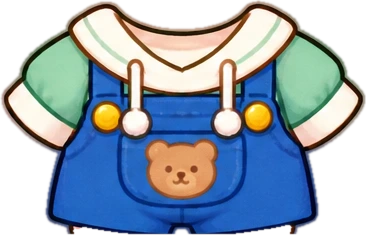
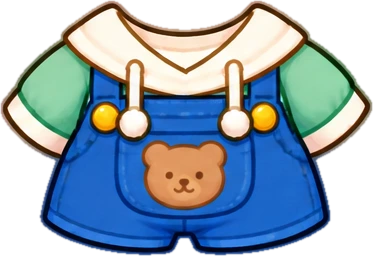
날개 4종, 의상 12종 새 이미지로 교체, 방에서 산책 금지
Claude-Session: https://claude.ai/code/session_01R3m8MAFkhgnU4D5f6BKp5W

diff --git a/index.html b/index.html
@@ -181,6 +181,7 @@ button.prow{cursor:pointer}
 #hosp,#walkG,#school,#room{opacity:0; transition:opacity .7s; pointer-events:none}
 .hospital #hosp,.walking #walkG,.schooling #school{opacity:1}
 .inroom #room{opacity:1}
+#walkBtn.dis{opacity:.45; filter:grayscale(.5)}
 .scene.wx-cloud:not(.night){--sky-a:#A9BCCB; --sky-b:#D3DEE6; --cloud:#F3F6F9}
 .scene.wx-rain:not(.night){--sky-a:#7F8FA3; --sky-b:#AEBBC9; --cloud:#8D9AAC; --hill:#8FB98A; --ground:#80AF7C; --ground-deep:#6FA06C}
 .scene.wx-snow:not(.night){--sky-a:#B9C7D8; --sky-b:#E3EBF3; --cloud:#FFFFFF; --hill:#EEF4F8; --ground:#E4EEF3; --ground-deep:#D3E1EA; --tree:#9DBFA6}
@@ -702,7 +703,7 @@ var FOODS = {
 var SHOP = [];
 /* 이미지로 만든 아이템: {id,name,slot,tier,cost,file:'assets/items/id.webp',box:[x,y,w,h]} 를 여기에 추가하면
    뽑기·꾸미기·도감에 자동으로 들어가요. box는 캔버스(640x520) 좌표, vb는 box 와 같아요. */
-var IMG_ITEMS = [{"id": "ribbon", "name": "빨간 리본", "slot": "side", "tier": 0, "cost": 8, "file": "assets/items/ribbon.webp", "box": [374.5, 56.1, 125, 71.7]}, {"id": "flower", "name": "꽃 핀", "slot": "side", "tier": 0, "cost": 12, "file": "assets/items/flower.webp", "box": [152.5, 43.1, 105, 97.7]}, {"id": "sprout", "name": "새싹 핀", "slot": "side", "tier": 0, "cost": 8, "file": "assets/items/sprout.webp", "box": [382.0, 53.3, 110, 77.5]}, {"id": "heart", "name": "하트 핀", "slot": "side", "tier": 0, "cost": 10, "file": "assets/items/heart.webp", "box": [383.0, 46.8, 108, 90.4]}, {"id": "star", "name": "별 핀", "slot": "side", "tier": 0, "cost": 10, "file": "assets/items/star.webp", "box": [383.0, 37.5, 108, 108.9]}, {"id": "cloudbow", "name": "구름 무지개 핀", "slot": "side", "tier": 0, "cost": 12, "file": "assets/items/cloudbow.webp", "box": [377.0, 51.8, 120, 80.5]}, {"id": "cherry", "name": "체리 핀", "slot": "side", "tier": 0, "cost": 12, "file": "assets/items/cherry.webp", "box": [387.0, 42.4, 100, 99.2]}, {"id": "glasses", "name": "동그란 안경", "slot": "face", "tier": 1, "cost": 15, "file": "assets/items/glasses.webp", "box": [143.5, 166.3, 355, 147.4]}, {"id": "scarf", "name": "따뜻한 목도리", "slot": "neck", "tier": 1, "cost": 20, "file": "assets/items/scarf.webp", "box": [179.5, 318.9, 285, 178.3]}, {"id": "hat", "name": "파티 모자", "slot": "head", "tier": 1, "cost": 25, "file": "assets/items/hat.webp", "box": [250.0, -80.1, 140, 168.1]}, {"id": "wingpin", "name": "날개 핀", "slot": "side", "tier": 1, "cost": 18, "file": "assets/items/wingpin.webp", "box": [379.5, 46.4, 115, 91.1]}, {"id": "purplebow", "name": "보라 리본 핀", "slot": "side", "tier": 1, "cost": 15, "file": "assets/items/purplebow.webp", "box": [377.0, 50.1, 120, 83.8]}, {"id": "lacebow", "name": "레이스 리본 핀", "slot": "side", "tier": 1, "cost": 18, "file": "assets/items/lacebow.webp", "box": [379.5, 38.0, 115, 108.1]}, {"id": "snow", "name": "눈꽃 핀", "slot": "side", "tier": 1, "cost": 20, "file": "assets/items/snow.webp", "box": [387.0, 48.3, 100, 87.4]}, {"id": "moon", "name": "달별 핀", "slot": "side", "tier": 1, "cost": 22, "file": "assets/items/moon.webp", "box": [382.0, 39.7, 110, 104.6]}, {"id": "crown", "name": "반짝 왕관", "slot": "head", "tier": 2, "cost": 0, "file": "assets/items/crown.webp", "box": [230.0, -37.8, 180, 127.8]}, {"id": "wizard", "name": "별 마법사 모자", "slot": "head", "tier": 2, "cost": 0, "file": "assets/items/wizard.webp", "box": [177.0, -77.3, 290, 189.3]}, {"id": "starwing", "name": "별무지개 날개 머리띠", "slot": "head", "tier": 2, "cost": 0, "file": "assets/items/starwing.webp", "box": [165.0, 28.9, 310, 134.2]}, {"id": "nightcap", "name": "꿀잠 모자", "slot": "head", "tier": 2, "cost": 0, "file": "assets/items/nightcap.webp", "box": [192.0, 9.8, 260, 180.4]}, {"id": "maid", "name": "프릴 리본 머리띠", "slot": "head", "tier": 2, "cost": 0, "file": "assets/items/maid.webp", "box": [190.0, 19.6, 260, 156.9]}, {"id": "angel", "name": "천사 날개 후광", "slot": "head", "tier": 3, "cost": 0, "file": "assets/items/angel.webp", "box": [150.0, 6.4, 340, 177.1]}, {"id": "bat", "name": "박쥐 날개", "slot": "head", "tier": 3, "cost": 0, "file": "assets/items/bat.webp", "box": [165.0, 48.5, 310, 127.1]}, {"id": "wreath", "name": "꽃 화관", "slot": "head", "tier": 3, "cost": 0, "file": "assets/items/wreath.webp", "box": [180.0, 19.0, 280, 162.0]}, {"id": "tiara", "name": "날개 티아라", "slot": "head", "tier": 3, "cost": 0, "file": "assets/items/tiara.webp", "box": [195.0, 18.6, 250, 146.9]}, {"id": "galaxy", "name": "은하수 머리띠", "slot": "head", "tier": 3, "cost": 0, "file": "assets/items/galaxy.webp", "box": [160.0, 23.2, 320, 161.5]}, {"id": "broom", "name": "빗자루", "slot": "hand", "tier": 0, "cost": 14, "file": "assets/items/broom.webp", "box": [401.6, 283, 100.8, 230]}, {"id": "drink", "name": "음료수", "slot": "hand", "tier": 0, "cost": 10, "file": "assets/items/drink.webp", "box": [136.2, 332, 97.6, 162]}, {"id": "schoolbag", "name": "학교가방", "slot": "hand", "tier": 0, "cost": 16, "file": "assets/items/schoolbag.webp", "box": [383.0, 392, 133.0, 140]}, {"id": "slime", "name": "슬라임", "slot": "hand", "tier": 1, "cost": 18, "file": "assets/items/slime.webp", "box": [108.0, 331.1, 154, 116.8]}, {"id": "gameboy", "name": "휴대용 게임기", "slot": "hand", "tier": 1, "cost": 24, "file": "assets/items/gameboy.webp", "box": [222.0, 359.4, 195, 109.1]}, {"id": "bananadoll", "name": "바나나 애착인형", "slot": "hand", "tier": 2, "cost": 0, "file": "assets/items/bananadoll.webp", "box": [105.0, 303.6, 150, 176.4]}, {"id": "elephantdoll", "name": "코끼리 애착인형", "slot": "hand", "tier": 2, "cost": 0, "file": "assets/items/elephantdoll.webp", "box": [385.0, 321.0, 160, 148.7]}, {"id": "tshirt", "name": "줄무늬 티셔츠", "slot": "outfit", "tier": 0, "cost": 14, "file": "assets/items/tshirt.webp", "box": [200.0, 338, 240, 131.0]}, {"id": "overalls", "name": "멜빵바지", "slot": "outfit", "tier": 0, "cost": 16, "file": "assets/items/overalls.webp", "box": [200.0, 338, 240, 177.4]}, {"id": "dress", "name": "분홍 원피스", "slot": "outfit", "tier": 1, "cost": 26, "file": "assets/items/dress.webp", "box": [200.0, 338, 240, 131.7]}, {"id": "hanbok", "name": "한복", "slot": "outfit", "tier": 1, "cost": 30, "file": "assets/items/hanbok.webp", "box": [200.0, 338, 240, 139.9]}, {"id": "uniform", "name": "세일러 교복", "slot": "outfit", "tier": 1, "cost": 28, "file": "assets/items/uniform.webp", "box": [200.0, 338, 240, 146.9]}, {"id": "cape", "name": "별빛 마법 망토", "slot": "outfit", "tier": 2, "cost": 0, "file": "assets/items/cape.webp", "box": [200.0, 375, 240, 138.0]}, {"id": "princess", "name": "공주 드레스", "slot": "outfit", "tier": 2, "cost": 0, "file": "assets/items/princess.webp", "box": [200.0, 338, 240, 157.7]}, {"id": "spacesuit", "name": "우주복", "slot": "outfit", "tier": 3, "cost": 0, "file": "assets/items/spacesuit.webp", "box": [200.0, 338, 240, 126.9]}, {"id": "heartphones", "name": "하트 헤드폰", "slot": "head", "tier": 1, "cost": 22, "file": "assets/items/heartphones.webp", "box": [82, -12, 476, 273.0]}, {"id": "nursehat", "name": "간호사 모자", "slot": "head", "tier": 0, "cost": 14, "file": "assets/items/nursehat.webp", "box": [215, 14, 210, 102.6]}, {"id": "nursedress", "name": "간호사복", "slot": "outfit", "tier": 1, "cost": 28, "file": "assets/items/nursedress.webp", "box": [180.0, 328, 280, 206.6]}, {"id": "pancake", "name": "팬케이크", "slot": "hand", "tier": 1, "cost": 18, "file": "assets/items/pancake.webp", "box": [110, 335, 150, 121.7]}, {"id": "heartall", "name": "하트 멜빵바지", "slot": "outfit", "tier": 0, "cost": 16, "file": "assets/items/heartall.webp", "box": [180.0, 328, 280, 171.0]}, {"id": "pinklolita", "name": "분홍 로리타 원피스", "slot": "outfit", "tier": 1, "cost": 26, "file": "assets/items/pinklolita.webp", "box": [180.0, 328, 280, 178.5]}, {"id": "bearcoat", "name": "곰돌이 코트", "slot": "outfit", "tier": 1, "cost": 28, "file": "assets/items/bearcoat.webp", "box": [180.0, 328, 280, 176.5]}, {"id": "strawberry", "name": "딸기 원피스", "slot": "outfit", "tier": 1, "cost": 28, "file": "assets/items/strawberry.webp", "box": [180.0, 328, 280, 173.8]}, {"id": "sailorblue", "name": "파란 세일러복", "slot": "outfit", "tier": 0, "cost": 18, "file": "assets/items/sailorblue.webp", "box": [180.0, 328, 280, 178.5]}, {"id": "yellowdress", "name": "노랑 꽃무늬 원피스", "slot": "outfit", "tier": 1, "cost": 26, "file": "assets/items/yellowdress.webp", "box": [180.0, 328, 280, 193.6]}, {"id": "roseflower", "name": "장미 원피스", "slot": "outfit", "tier": 1, "cost": 26, "file": "assets/items/roseflower.webp", "box": [180.0, 328, 280, 185.4]}, {"id": "bearoveralls", "name": "곰돌이 멜빵바지", "slot": "outfit", "tier": 0, "cost": 18, "file": "assets/items/bearoveralls.webp", "box": [180.0, 328, 280, 179.8]}, {"id": "starcloak", "name": "별빛 망토", "slot": "outfit", "tier": 2, "cost": 0, "file": "assets/items/starcloak.webp", "box": [180.0, 328, 280, 189.7]}, {"id": "snowcoat", "name": "눈꽃 코트", "slot": "outfit", "tier": 2, "cost": 0, "file": "assets/items/snowcoat.webp", "box": [180.0, 328, 280, 201.2]}, {"id": "prince", "name": "왕자님 정복", "slot": "outfit", "tier": 2, "cost": 0, "file": "assets/items/prince.webp", "box": [180.0, 328, 280, 187.9]}, {"id": "batcloak", "name": "박쥐 망토", "slot": "outfit", "tier": 3, "cost": 0, "file": "assets/items/batcloak.webp", "box": [180.0, 328, 280, 189.8]}, {"id": "chocochip", "name": "초코칩", "slot": "hand", "tier": 0, "cost": 12, "file": "assets/items/chocochip.webp", "box": [130, 340, 100, 101.5]}, {"id": "elephantwings", "name": "코끼리 날개", "slot": "back", "tier": 1, "cost": 32, "file": "assets/items/elephantwings.webp", "box": [10, 235, 620, 200.8]}];
+var IMG_ITEMS = [{"id": "ribbon", "name": "빨간 리본", "slot": "side", "tier": 0, "cost": 8, "file": "assets/items/ribbon.webp", "box": [374.5, 56.1, 125, 71.7]}, {"id": "flower", "name": "꽃 핀", "slot": "side", "tier": 0, "cost": 12, "file": "assets/items/flower.webp", "box": [152.5, 43.1, 105, 97.7]}, {"id": "sprout", "name": "새싹 핀", "slot": "side", "tier": 0, "cost": 8, "file": "assets/items/sprout.webp", "box": [382.0, 53.3, 110, 77.5]}, {"id": "heart", "name": "하트 핀", "slot": "side", "tier": 0, "cost": 10, "file": "assets/items/heart.webp", "box": [383.0, 46.8, 108, 90.4]}, {"id": "star", "name": "별 핀", "slot": "side", "tier": 0, "cost": 10, "file": "assets/items/star.webp", "box": [383.0, 37.5, 108, 108.9]}, {"id": "cloudbow", "name": "구름 무지개 핀", "slot": "side", "tier": 0, "cost": 12, "file": "assets/items/cloudbow.webp", "box": [377.0, 51.8, 120, 80.5]}, {"id": "cherry", "name": "체리 핀", "slot": "side", "tier": 0, "cost": 12, "file": "assets/items/cherry.webp", "box": [387.0, 42.4, 100, 99.2]}, {"id": "glasses", "name": "동그란 안경", "slot": "face", "tier": 1, "cost": 15, "file": "assets/items/glasses.webp", "box": [143.5, 166.3, 355, 147.4]}, {"id": "scarf", "name": "따뜻한 목도리", "slot": "neck", "tier": 1, "cost": 20, "file": "assets/items/scarf.webp", "box": [179.5, 318.9, 285, 178.3]}, {"id": "hat", "name": "파티 모자", "slot": "head", "tier": 1, "cost": 25, "file": "assets/items/hat.webp", "box": [250.0, -80.1, 140, 168.1]}, {"id": "wingpin", "name": "날개 핀", "slot": "side", "tier": 1, "cost": 18, "file": "assets/items/wingpin.webp", "box": [379.5, 46.4, 115, 91.1]}, {"id": "purplebow", "name": "보라 리본 핀", "slot": "side", "tier": 1, "cost": 15, "file": "assets/items/purplebow.webp", "box": [377.0, 50.1, 120, 83.8]}, {"id": "lacebow", "name": "레이스 리본 핀", "slot": "side", "tier": 1, "cost": 18, "file": "assets/items/lacebow.webp", "box": [379.5, 38.0, 115, 108.1]}, {"id": "snow", "name": "눈꽃 핀", "slot": "side", "tier": 1, "cost": 20, "file": "assets/items/snow.webp", "box": [387.0, 48.3, 100, 87.4]}, {"id": "moon", "name": "달별 핀", "slot": "side", "tier": 1, "cost": 22, "file": "assets/items/moon.webp", "box": [382.0, 39.7, 110, 104.6]}, {"id": "crown", "name": "반짝 왕관", "slot": "head", "tier": 2, "cost": 0, "file": "assets/items/crown.webp", "box": [230.0, -37.8, 180, 127.8]}, {"id": "wizard", "name": "별 마법사 모자", "slot": "head", "tier": 2, "cost": 0, "file": "assets/items/wizard.webp", "box": [177.0, -77.3, 290, 189.3]}, {"id": "starwing", "name": "별무지개 날개 머리띠", "slot": "head", "tier": 2, "cost": 0, "file": "assets/items/starwing.webp", "box": [165.0, 28.9, 310, 134.2]}, {"id": "nightcap", "name": "꿀잠 모자", "slot": "head", "tier": 2, "cost": 0, "file": "assets/items/nightcap.webp", "box": [192.0, 9.8, 260, 180.4]}, {"id": "maid", "name": "프릴 리본 머리띠", "slot": "head", "tier": 2, "cost": 0, "file": "assets/items/maid.webp", "box": [190.0, 19.6, 260, 156.9]}, {"id": "angel", "name": "천사 날개 후광", "slot": "head", "tier": 3, "cost": 0, "file": "assets/items/angel.webp", "box": [150.0, 6.4, 340, 177.1]}, {"id": "bat", "name": "박쥐 날개", "slot": "head", "tier": 3, "cost": 0, "file": "assets/items/bat.webp", "box": [165.0, 48.5, 310, 127.1]}, {"id": "wreath", "name": "꽃 화관", "slot": "head", "tier": 3, "cost": 0, "file": "assets/items/wreath.webp", "box": [180.0, 19.0, 280, 162.0]}, {"id": "tiara", "name": "날개 티아라", "slot": "head", "tier": 3, "cost": 0, "file": "assets/items/tiara.webp", "box": [195.0, 18.6, 250, 146.9]}, {"id": "galaxy", "name": "은하수 머리띠", "slot": "head", "tier": 3, "cost": 0, "file": "assets/items/galaxy.webp", "box": [160.0, 23.2, 320, 161.5]}, {"id": "broom", "name": "빗자루", "slot": "hand", "tier": 0, "cost": 14, "file": "assets/items/broom.webp", "box": [401.6, 283, 100.8, 230]}, {"id": "drink", "name": "음료수", "slot": "hand", "tier": 0, "cost": 10, "file": "assets/items/drink.webp", "box": [136.2, 332, 97.6, 162]}, {"id": "schoolbag", "name": "학교가방", "slot": "hand", "tier": 0, "cost": 16, "file": "assets/items/schoolbag.webp", "box": [383.0, 392, 133.0, 140]}, {"id": "slime", "name": "슬라임", "slot": "hand", "tier": 1, "cost": 18, "file": "assets/items/slime.webp", "box": [108.0, 331.1, 154, 116.8]}, {"id": "gameboy", "name": "휴대용 게임기", "slot": "hand", "tier": 1, "cost": 24, "file": "assets/items/gameboy.webp", "box": [222.0, 359.4, 195, 109.1]}, {"id": "bananadoll", "name": "바나나 애착인형", "slot": "hand", "tier": 2, "cost": 0, "file": "assets/items/bananadoll.webp", "box": [105.0, 303.6, 150, 176.4]}, {"id": "elephantdoll", "name": "코끼리 애착인형", "slot": "hand", "tier": 2, "cost": 0, "file": "assets/items/elephantdoll.webp", "box": [385.0, 321.0, 160, 148.7]}, {"id": "tshirt", "name": "줄무늬 티셔츠", "slot": "outfit", "tier": 0, "cost": 14, "file": "assets/items/tshirt.webp", "box": [200.0, 338, 240, 131.0]}, {"id": "overalls", "name": "멜빵바지", "slot": "outfit", "tier": 0, "cost": 16, "file": "assets/items/overalls.webp", "box": [200.0, 338, 240, 177.4]}, {"id": "dress", "name": "분홍 원피스", "slot": "outfit", "tier": 1, "cost": 26, "file": "assets/items/dress.webp", "box": [200.0, 338, 240, 131.7]}, {"id": "hanbok", "name": "한복", "slot": "outfit", "tier": 1, "cost": 30, "file": "assets/items/hanbok.webp", "box": [200.0, 338, 240, 139.9]}, {"id": "uniform", "name": "세일러 교복", "slot": "outfit", "tier": 1, "cost": 28, "file": "assets/items/uniform.webp", "box": [200.0, 338, 240, 146.9]}, {"id": "cape", "name": "별빛 마법 망토", "slot": "outfit", "tier": 2, "cost": 0, "file": "assets/items/cape.webp", "box": [200.0, 375, 240, 138.0]}, {"id": "princess", "name": "공주 드레스", "slot": "outfit", "tier": 2, "cost": 0, "file": "assets/items/princess.webp", "box": [200.0, 338, 240, 157.7]}, {"id": "spacesuit", "name": "우주복", "slot": "outfit", "tier": 3, "cost": 0, "file": "assets/items/spacesuit.webp", "box": [200.0, 338, 240, 126.9]}, {"id": "heartphones", "name": "하트 헤드폰", "slot": "head", "tier": 1, "cost": 22, "file": "assets/items/heartphones.webp", "box": [82, -12, 476, 273.0]}, {"id": "nursehat", "name": "간호사 모자", "slot": "head", "tier": 0, "cost": 14, "file": "assets/items/nursehat.webp", "box": [215, 14, 210, 102.6]}, {"id": "nursedress", "name": "간호사복", "slot": "outfit", "tier": 1, "cost": 28, "file": "assets/items/nursedress.webp", "box": [180.0, 328, 280, 206.6]}, {"id": "pancake", "name": "팬케이크", "slot": "hand", "tier": 1, "cost": 18, "file": "assets/items/pancake.webp", "box": [110, 335, 150, 121.7]}, {"id": "chocochip", "name": "초코칩", "slot": "hand", "tier": 0, "cost": 12, "file": "assets/items/chocochip.webp", "box": [130, 340, 100, 101.5]}, {"id": "elephantwings", "name": "코끼리 날개", "slot": "back", "tier": 1, "cost": 32, "file": "assets/items/elephantwings.webp", "box": [10, 235, 620, 200.8]}, {"id": "angelwings", "name": "천사 날개", "slot": "back", "tier": 1, "cost": 34, "file": "assets/items/angelwings.webp", "box": [10, 235, 620, 185.0]}, {"id": "demonwings", "name": "악마 날개", "slot": "back", "tier": 1, "cost": 34, "file": "assets/items/demonwings.webp", "box": [10, 235, 620, 207.5]}, {"id": "rainbowwings", "name": "무지개 날개", "slot": "back", "tier": 2, "cost": 0, "file": "assets/items/rainbowwings.webp", "box": [10, 235, 620, 185.0]}, {"id": "butterflywings", "name": "나비 날개", "slot": "back", "tier": 0, "cost": 24, "file": "assets/items/butterflywings.webp", "box": [10, 235, 620, 201.8]}, {"id": "heartall", "name": "하트 멜빵바지", "slot": "outfit", "tier": 0, "cost": 16, "file": "assets/items/heartall.webp", "box": [180.0, 328, 280, 191.4]}, {"id": "pinklolita", "name": "분홍 로리타 원피스", "slot": "outfit", "tier": 1, "cost": 26, "file": "assets/items/pinklolita.webp", "box": [180.0, 328, 280, 199.5]}, {"id": "bearcoat", "name": "곰돌이 코트", "slot": "outfit", "tier": 1, "cost": 28, "file": "assets/items/bearcoat.webp", "box": [180.0, 328, 280, 198.9]}, {"id": "strawberry", "name": "딸기 원피스", "slot": "outfit", "tier": 1, "cost": 28, "file": "assets/items/strawberry.webp", "box": [180.0, 328, 280, 197.5]}, {"id": "sailorblue", "name": "파란 세일러복", "slot": "outfit", "tier": 0, "cost": 18, "file": "assets/items/sailorblue.webp", "box": [180.0, 328, 280, 193.2]}, {"id": "yellowdress", "name": "노랑 꽃무늬 원피스", "slot": "outfit", "tier": 1, "cost": 26, "file": "assets/items/yellowdress.webp", "box": [180.0, 328, 280, 195.9]}, {"id": "roseflower", "name": "장미 원피스", "slot": "outfit", "tier": 1, "cost": 26, "file": "assets/items/roseflower.webp", "box": [180.0, 328, 280, 196.8]}, {"id": "bearoveralls", "name": "곰돌이 멜빵바지", "slot": "outfit", "tier": 0, "cost": 18, "file": "assets/items/bearoveralls.webp", "box": [180.0, 328, 280, 192.2]}, {"id": "starcloak", "name": "별빛 망토", "slot": "outfit", "tier": 2, "cost": 0, "file": "assets/items/starcloak.webp", "box": [180.0, 328, 280, 197.3]}, {"id": "snowcoat", "name": "눈꽃 코트", "slot": "outfit", "tier": 2, "cost": 0, "file": "assets/items/snowcoat.webp", "box": [180.0, 328, 280, 210.0]}, {"id": "prince", "name": "왕자님 정복", "slot": "outfit", "tier": 2, "cost": 0, "file": "assets/items/prince.webp", "box": [180.0, 328, 280, 204.8]}, {"id": "batcloak", "name": "박쥐 망토", "slot": "outfit", "tier": 3, "cost": 0, "file": "assets/items/batcloak.webp", "box": [180.0, 328, 280, 202.5]}];
 var TIERS = [
   {name:'보통',     w:60, dup:4,  buy:true},
   {name:'희귀',     w:28, dup:6,  buy:true},
@@ -1109,7 +1110,7 @@ function render(){
   ele.setAttribute('data-pose', m);
   applyAcc(m);
   scene.classList.toggle('night', isNight());
-  scene.classList.toggle('inroom', !!S.room); wxApply(); $('roomBtn').textContent=S.room?'🌳':'🏠';
+  scene.classList.toggle('inroom', !!S.room); $('walkBtn').classList.toggle('dis', !!S.room); wxApply(); $('roomBtn').textContent=S.room?'🌳':'🏠';
   scene.classList.toggle('sleeping', S.sleeping);
   sleepLabel.textContent = S.sleeping ? '깨우기' : '자기';
   $('soundUse').setAttribute('href', (S.bgmOn||S.sfxOn) ? '#i-sound' : '#i-mute');
@@ -2257,7 +2258,7 @@ Array.prototype.forEach.call(document.querySelectorAll('.food'),function(b){ b.a
 $('washBtn').addEventListener('click',function(){ endPet(); tray.hidden=true; wash(); });
 $('playBtn').addEventListener('click',function(){ endPet(); tray.hidden=true; play(); });
 $('petBtn').addEventListener('click',startPet);
-$('walkBtn').addEventListener('click',function(){ endPet(); walk(); });
+$('walkBtn').addEventListener('click',function(){ if(S.room){ say('방 안에서는 산책할 수 없어요! 🌳 버튼으로 마당에 나가요',2800); return; } endPet(); walk(); });
 $('hospBtn').addEventListener('click',function(){ endPet(); hospital(); });
 $('schoolBtn').addEventListener('click',function(){ endPet(); school(); });
 $('sleepBtn').addEventListener('click',function(){ endPet(); if(S.sleeping) wake(); else startSleep(); });

diff --git a/README.md b/README.md
@@ -66,3 +66,4 @@
 - 꾸미기 아이템: 초코칩(손, 쿠키), 코끼리 날개(등, `back` 슬롯)
 - 방 안 배경: 화면 왼쪽 위 🏠/🌳 버튼으로 마당 ↔ 방 전환 (밤에는 창밖이 밤하늘로 바뀜)
 - 실제 날씨 연동: 왼쪽 위 🌤 버튼 → 위치 허용 → Open-Meteo(무료)에서 현재 날씨를 가져와 맑음/흐림/안개/비/눈을 배경에 반영 (비·눈은 내리는 효과). 30분마다 자동 갱신, 켠 상태에서 4초 안에 한 번 더 누르면 연동 끄기
+- 날개 4종 추가(천사·악마·무지개·나비, 날개만), 의상 12종 이미지를 새 시트로 교체, 방 안에서는 산책 불가
